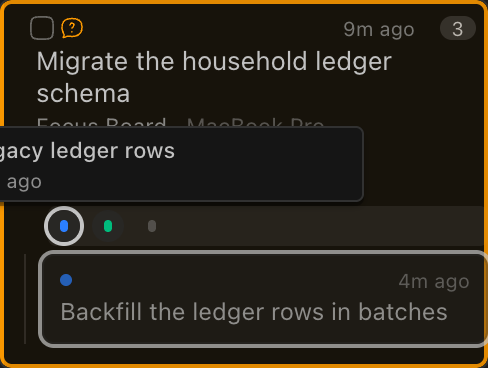
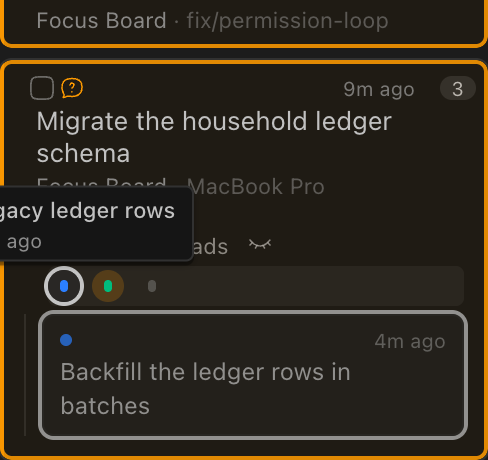
A child dot's hover halo reads amber so the preview pair stands out

Changed region(s): [[0.0, 0.0, 1.0, 1.0], [0.7377, 0.3587, 0.7684, 0.538], [0.3074, 0.5978, 0.3381, 0.6277]]

diff --git a/components/thread-card.tsx b/components/thread-card.tsx
@@ -1389,14 +1389,16 @@ export function ThreadCard({
                     }}
                     className={cn(
                       "group/dot relative flex size-4 items-center justify-center rounded-full",
-                      // The hovered (or keyboard-focused) dot lights a
-                      // subtle accent halo behind its glyph — the
-                      // hovered-preview pair reads as one thing. Plain
-                      // hover/focus variants: the group-hover form cannot
-                      // style a button from its own group marker (:is(
-                      // .group:hover *) matches only descendants, and the
-                      // halo's target IS the group element).
-                      "hover:bg-accent/70 focus-visible:bg-accent/70",
+                      // The hovered (or keyboard-focused) dot lights an
+                      // amber wash behind its glyph — the preview pair and
+                      // the attention signals read one language, and the
+                      // grey accent wash was too subtle at this size
+                      // (operator). Plain hover/focus variants: the
+                      // group-hover form cannot style a button from its own
+                      // group marker (:is(.group:hover *) matches only
+                      // descendants, and the halo's target IS the group
+                      // element).
+                      "hover:bg-amber-500/20 focus-visible:bg-amber-500/20",
                       "focus:outline-none focus-visible:ring-2 focus-visible:ring-ring",
                       isChildActive && "bg-accent/70 ring-2 ring-ring",
                     )}

diff --git a/tests/thread-card-child-dots.test.tsx b/tests/thread-card-child-dots.test.tsx
@@ -131,14 +131,16 @@ describe("a child dot's hover preview", () => {
     expect(document.querySelector("[data-child-dot-preview]")).toBeNull();
   });
 
-  it("lights a subtle halo behind the dot while it is hovered or focused", () => {
+  it("lights an amber halo behind the dot while it is hovered or focused", () => {
     renderCard({ isCollapsed: true });
     const button = dot("thr_c2");
     // The halo rides the button's own hover/focus (the group-hover variant
     // cannot style a button from its own group marker — `:is(.group:hover *)`
     // matches only descendants, and the halo target IS the group element).
-    expect(button.className).toContain("hover:bg-accent/70");
-    expect(button.className).toContain("focus-visible:bg-accent/70");
+    // Amber: the grey accent wash was too subtle at this size (operator).
+    expect(button.className).toContain("hover:bg-amber-500/20");
+    expect(button.className).toContain("focus-visible:bg-amber-500/20");
+    expect(button.className).not.toContain("hover:bg-accent");
   });
 
   it("is aria-hidden: the dot's aria-label carries the child's name for screen readers", () => {
